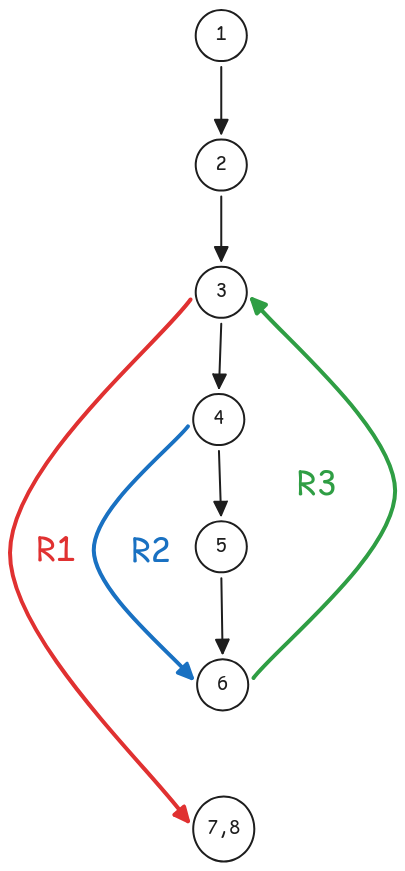
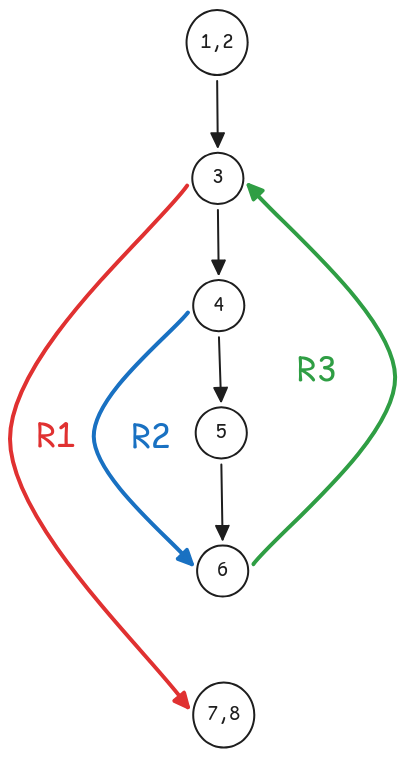
ultimitas correciones

diff --git a/DocSistema.tex b/DocSistema.tex
@@ -51,7 +51,7 @@ y sus ficheros de configuración asociados.
 \end{figure}
 
 \bigskip
-
+''puzzle\_find\_by\_id''
 En cuanto al plan de desarrollo, se siguió \textbf{un enfoque incremental} de varias fases. En una primera fase, 
 cada miembro del equipo desarrolló su módulo de manera relativamente independiente, 
 con el objetivo de reducir al mínimo el acoplamiento entre componentes y facilitar la verificación individual de cada uno. 
@@ -158,7 +158,7 @@ palabra clave al principio del nombre de la función que se incluye en la descri
 		\begin{figure}[htbp]
    	 	\centering
     	\includegraphics[width=0.5\textwidth]{Fotoponerpacorro.jpeg}
-    	\caption{Aquí puedes escribir el título o descripción de tu esquema.}
+    	\caption{Grafo de flujo de control de la función ''puzzle\_find\_by\_id''}
     	\label{fig:esquema_nodos}
 		\end{figure}
 
@@ -174,7 +174,7 @@ palabra clave al principio del nombre de la función que se incluye en la descri
 
 		\item \underline{Ruta 1 (1-2-5) (No se encuentra el puzle):}
 		
-			Primero se declara la variable i para entrar al bucle, al entrar al bucle se intenta buscar el puzle por todo el array de puzles pero este no es encontrado en todo el array, finalmente se sale del bucle y ddevuelve NULL.
+			Primero se declara la variable i para entrar al bucle, al entrar al bucle se intenta buscar el puzle por todo el array de puzles pero este no es encontrado en todo el array, finalmente se sale del bucle y devuelve NULL.
 \end{itemize}
 
 \subsubsection{Pruebas de ruta básica de la función "\texttt{inv\_find\_item\_by\_id}":}
@@ -215,7 +215,7 @@ generado para esta función.
 \textbf{Complejidad ciclomática:}
 
 \begin{itemize}
-	\item $V(G) = NA - NN + 2 = 8 - 7 + 2 = \mathbf{3}$
+	\item $V(G) = NA - NN + 2 = 7 - 6 + 2 = \mathbf{3}$
 	\item $V(G) = NNP + 1 = 2 + 1 = \mathbf{3}$
 	\item $V(G) =$ número de regiones $= R1 + R2 + R3 = \mathbf{3}$
 \end{itemize}
@@ -420,8 +420,15 @@ Donde
 
 \subsubsection{Prueba de integración}
 
-Para esta prueba se desarrolló de forma modular el escaperoom dividiendo este en 2 módulos por persona. Para garantizar el funcionamiento entre módulos se definieron los archivos de cabecera entre módulos para probar su funcionamiento, permitiendo así el uso de funciones de distintos módulos.
-Para continuar, se comprobó el funcionamiento de los distintos módulos al mismo tiempo dentro del archivo "main.c" para comprobar que ningún módulo causara problema con ningún otro, a continuación se comprobó el funcionamiento del menú del juego del módulo ui ya que será la primera parte que debería de funcionar en nuestro juego, y finalmente se completó el archivo "main.c" lanzando más funciones de los distintos módulos para terminar de comprobar su funcionamiento.  
+Para esta prueba se desarrolló de forma modular el escaperoom dividiendo este en 2 módulos por persona. 
+Para garantizar el funcionamiento entre módulos se definieron los archivos de cabecera entre módulos para probar
+ su funcionamiento, permitiendo así el uso de funciones de distintos módulos.
+Para continuar, se comprobó el funcionamiento de los distintos módulos al mismo tiempo dentro del archivo 
+"main.c" para comprobar que ningún módulo causara problema con ningún otro, a continuación se comprobó el funcionamiento 
+del menú del juego del módulo ui ya que será la primera parte que debería de funcionar en nuestro juego, a la misma vez que 
+se iban probando distintas funciones creadas sobre la marcha dentro de este módulo ya que fue el 
+módulo que más funciones de distintos módulos necesitó, y finalmente se
+completó el archivo "main.c" lanzando más funciones de los distintos módulos para terminar de comprobar su funcionamiento.  
 
 \subsubsection{ Plan de pruebas de aceptación}
 

diff --git a/DocUsuario.tex b/DocUsuario.tex
@@ -157,7 +157,3 @@ Y ''Resolver puzle / introducir código'' permite al usuario resolver un puzle o
 \item Por último, si pulsas ''Volver'', el usuario volverá a la pantalla de inicio donde podrá crear una Nueva partida, Cargar partida o Salir del juego.
 
 \end{itemize}
-
-\subsection{Guía del operador}
-
-(Este programa no requiere de operador)
